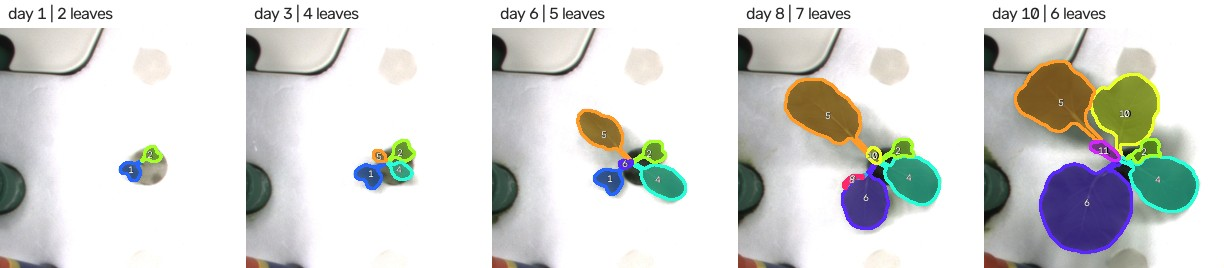
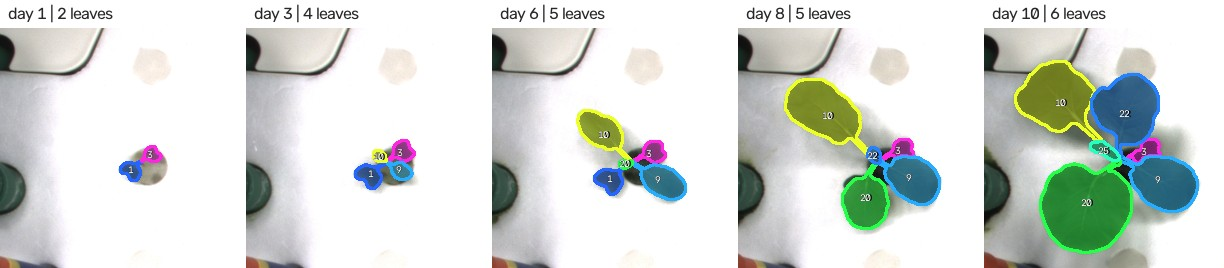
docs: ByteTrack default and updated results at NMS IoU 0.5
Segmentation: |DiC| 0.25 -> 0.15 and exact count 82% -> 85% (YOLO11n).
Tracking (test): ByteTrack IDF1 0.968 with 6 ID switches, LeafTracker
0.949 with 11; both 0.886 on val. GIF, filmstrip and example grid
regenerated; Hub model cards and metrics re-uploaded.

diff --git a/README.md b/README.md
@@ -41,24 +41,24 @@ Test split: 240 images of 2 held-out plants (one per capture rig).
 
 | Model | Params | Mask mAP50 | Mask mAP50-95 | SBD ↑ | FBD ↑ | \|DiC\| ↓ | Exact leaf count | CPU latency* |
 |---|---|---|---|---|---|---|---|---|
-| **[YOLO11n-seg](https://huggingface.co/Awais05/leaftrack-yolo11n-seg)** (demo model) | 2.8 M | **0.987** | **0.825** | 0.930 | 0.970 | 0.25 | 82% | **240 ms** |
-| [YOLO11s-seg](https://huggingface.co/Awais05/leaftrack-yolo11s-seg) | 10.1 M | 0.965 | 0.806 | **0.934** | **0.971** | **0.19** | **85%** | 672 ms |
+| **[YOLO11n-seg](https://huggingface.co/Awais05/leaftrack-yolo11n-seg)** (demo model) | 2.8 M | **0.987** | **0.825** | 0.930 | 0.970 | 0.15 | 85% | **241 ms** |
+| [YOLO11s-seg](https://huggingface.co/Awais05/leaftrack-yolo11s-seg) | 10.1 M | 0.965 | 0.806 | **0.934** | **0.971** | **0.15** | **87%** | 523 ms |
 
 \* Median per image at 640 px on 2 CPU threads, matching the free Hugging Face Spaces tier.
 
-- **The nano model is the right choice for the demo.** It matches the small model within 0.004 SBD and is 2.8× faster on CPU.
+- **The nano model is the right choice for the demo.** It matches the small model within 0.004 SBD and is 2.2× faster on CPU.
 - **SBD / FBD / DiC** are the [CVPPP leaf segmentation](https://link.springer.com/article/10.1007/s00138-015-0737-3) metrics. SBD measures how well each leaf is segmented, FBD how well the plant is separated from the background, and |DiC| the error in leaf count.
-- **How the leaf metrics are computed:** at a confidence threshold chosen on the **validation** plants, so the test plants stay unseen, scored against the original color labels.
+- **How the leaf metrics are computed:** with post-processing chosen on the **validation** plants (confidence threshold, and NMS IoU 0.5), so the test plants stay unseen, scored against the original color labels.
 
 ### What made the difference
 
-COCO mAP looked excellent from the start, but leaf counting was off by 1.6 leaves per image. The cause was not the model: multi-view crops contain **leaves of neighbouring plants** at the image edge, which the labels correctly ignore. LeafTrack drops edge leaves that never reach toward the plant centre. On the ground truth this rule removes 0 of 5,820 true leaves.
+COCO mAP looked excellent from the start, but leaf counting was off by 1.4 leaves per image. The cause was not the model: multi-view crops contain **leaves of neighbouring plants** at the image edge, which the labels correctly ignore. LeafTrack drops edge leaves that never reach toward the plant centre. On the ground truth this rule removes 0 of 5,820 true leaves.
 
 | YOLO11n, test split | SBD ↑ | \|DiC\| ↓ | Exact leaf count |
 |---|---|---|---|
-| Ultralytics default (conf 0.25) | 0.738 | 1.60 | 22% |
-| + threshold selected on validation (0.30) | 0.749 | 1.45 | 24% |
-| + neighbour-leaf filter | **0.930** | **0.25** | **82%** |
+| Ultralytics default (conf 0.25) | 0.746 | 1.38 | 26% |
+| + threshold selected on validation (0.30) | 0.756 | 1.27 | 28% |
+| + neighbour-leaf filter | **0.930** | **0.15** | **85%** |
 
 Full reports, including per-rig breakdowns, are written by `evaluate.py` (`metrics.json`, `results.md`, `per_image.csv`).
 
@@ -68,33 +68,34 @@ Full reports, including per-rig breakdowns, are written by `evaluate.py` (`metri
 
 ## Leaf tracking
 
-`LeafTracker` gives every leaf a stable ID across a time-lapse. Frames are 4 hours apart, so there is no smooth motion to model; instead each detection is matched to the existing leaf tracks by **mask overlap** with the Hungarian algorithm. The matching cost combines IoU with overlap of the smaller mask, so a whole leaf wins over a fragment of it when the segmentation flickers. A track survives up to 5 missed frames, so a briefly hidden leaf gets its old ID back. It runs on CPU in about 9 ms per frame, on top of segmentation.
+Every leaf gets a stable ID across the time-lapse. The default tracker is **ByteTrack** (Ultralytics' implementation): it matches boxes with a Kalman filter in two stages, and its second stage uses *low-confidence* detections to continue existing tracks, which keeps a partly covered leaf's ID while its segmentation flickers. On 2 CPU threads it adds about 3 ms per frame to segmentation (237 → 240 ms).
 
 ```python
+from leaftrack.pipeline import track_frames
 from leaftrack.segment import LeafSegmenter
-from leaftrack.track import LeafTracker
 
 segmenter = LeafSegmenter.from_hub("Awais05/leaftrack-yolo11n-seg", conf=0.30)
-tracker = LeafTracker()
-for image in frames:  # time-ordered RGB images of one plant
-    for leaf in tracker.update(segmenter.predict(image)):
+for leaves in track_frames(frames, segmenter):  # time-ordered RGB images of one plant
+    for leaf in leaves:
         print(leaf.track_id, leaf.instance.area)
 ```
 
-Test split: 4 sequences (3 camera views of one plant, one RGB-D plant), 240 frames, 28 leaves. The ground-truth IDs are KOMATSUNA's per-leaf label colors. Tracker settings were selected on the validation plants.
+LeafTrack also includes its own tracker, `LeafTracker` (`track_frames(..., tracker="leaftrack")`). Frames are 4 hours apart, so it skips motion modelling and matches each detection to the existing tracks by **mask overlap** with the Hungarian algorithm. The cost combines IoU with overlap of the smaller mask, so a whole leaf wins over a fragment of it, and a track survives up to 10 missed frames.
+
+Test split: 4 sequences (3 camera views of one plant, one RGB-D plant), 240 frames, 28 leaves. The ground-truth IDs are KOMATSUNA's per-leaf label colors. `LeafTracker` settings were selected on the validation plants.
 
 | Method (YOLO11n masks) | IDF1 ↑ | MOTA ↑ | ID switches ↓ | Mostly tracked ↑ | Val IDF1 |
 |---|---|---|---|---|---|
-| Per-frame IDs (no tracking) | 0.319 | 0.645 | 319 | 4% | — |
-| LeafTrack without track memory | 0.932 | 0.920 | 20 | 93% | — |
-| **LeafTrack** | 0.939 | 0.924 | 16 | 96% | 0.878 |
-| ByteTrack (Ultralytics, box IoU + Kalman filter) | **0.968** | **0.952** | **6** | 96% | **0.886** |
-| LeafTrack on ground-truth masks | 0.973 | 0.988 | 13 | 96% | — |
+| Per-frame IDs (no tracking) | 0.323 | 0.678 | 309 | 4% | — |
+| LeafTracker without track memory | 0.945 | 0.950 | 13 | 93% | — |
+| LeafTracker (mask overlap) | 0.949 | **0.952** | 11 | 96% | 0.886 |
+| **ByteTrack (default)** | **0.968** | **0.952** | **6** | 96% | 0.886 |
+| LeafTracker on ground-truth masks | 0.973 | 0.988 | 13 | 96% | — |
 
 - **IDF1** measures how consistently each leaf keeps one ID over its whole life; **MOTA** combines misses, false detections and ID switches; **mostly tracked** is the share of leaves followed by one ID for at least 80% of their frames.
-- **ByteTrack is the stronger tracker here.** It leads LeafTrack slightly on validation (0.886 vs 0.878) and clearly on test. Its edge comes from using low-confidence boxes to keep tracks alive when a partly covered leaf flickers in the segmentation.
-- **Most LeafTrack errors come from the segmentation, not the matching.** On ground-truth masks it reaches 0.973 IDF1. The remaining switches there happen when a leaf changes shape faster than the 4-hour interval allows to follow, such as an old seed leaf (cotyledon) being covered by new growth.
-- **Approaches that did not help on validation** (and are therefore off by default): a centroid-distance fallback for low-overlap pairs, and a ByteTrack-style second pass over low-confidence detections.
+- **Why ByteTrack is the default:** the two trackers tie on validation (IDF1 0.886). On test, ByteTrack makes about half as many ID switches (6 vs 11) and is easy to swap for any Ultralytics tracker.
+- **Tracking quality is now limited by segmentation.** Given ground-truth masks, `LeafTracker` reaches 0.973 IDF1. The ID switches left there happen when a leaf changes shape faster than a 4-hour interval can follow, such as an old seed leaf (cotyledon) being covered by new growth.
+- **Approaches that did not help on validation:** a centroid-distance fallback for low-overlap pairs, and a ByteTrack-style low-confidence pass inside `LeafTracker`.
 
 ![Tracked leaves at five time points of one test plant](docs/assets/tracking_filmstrip.jpg)
 
